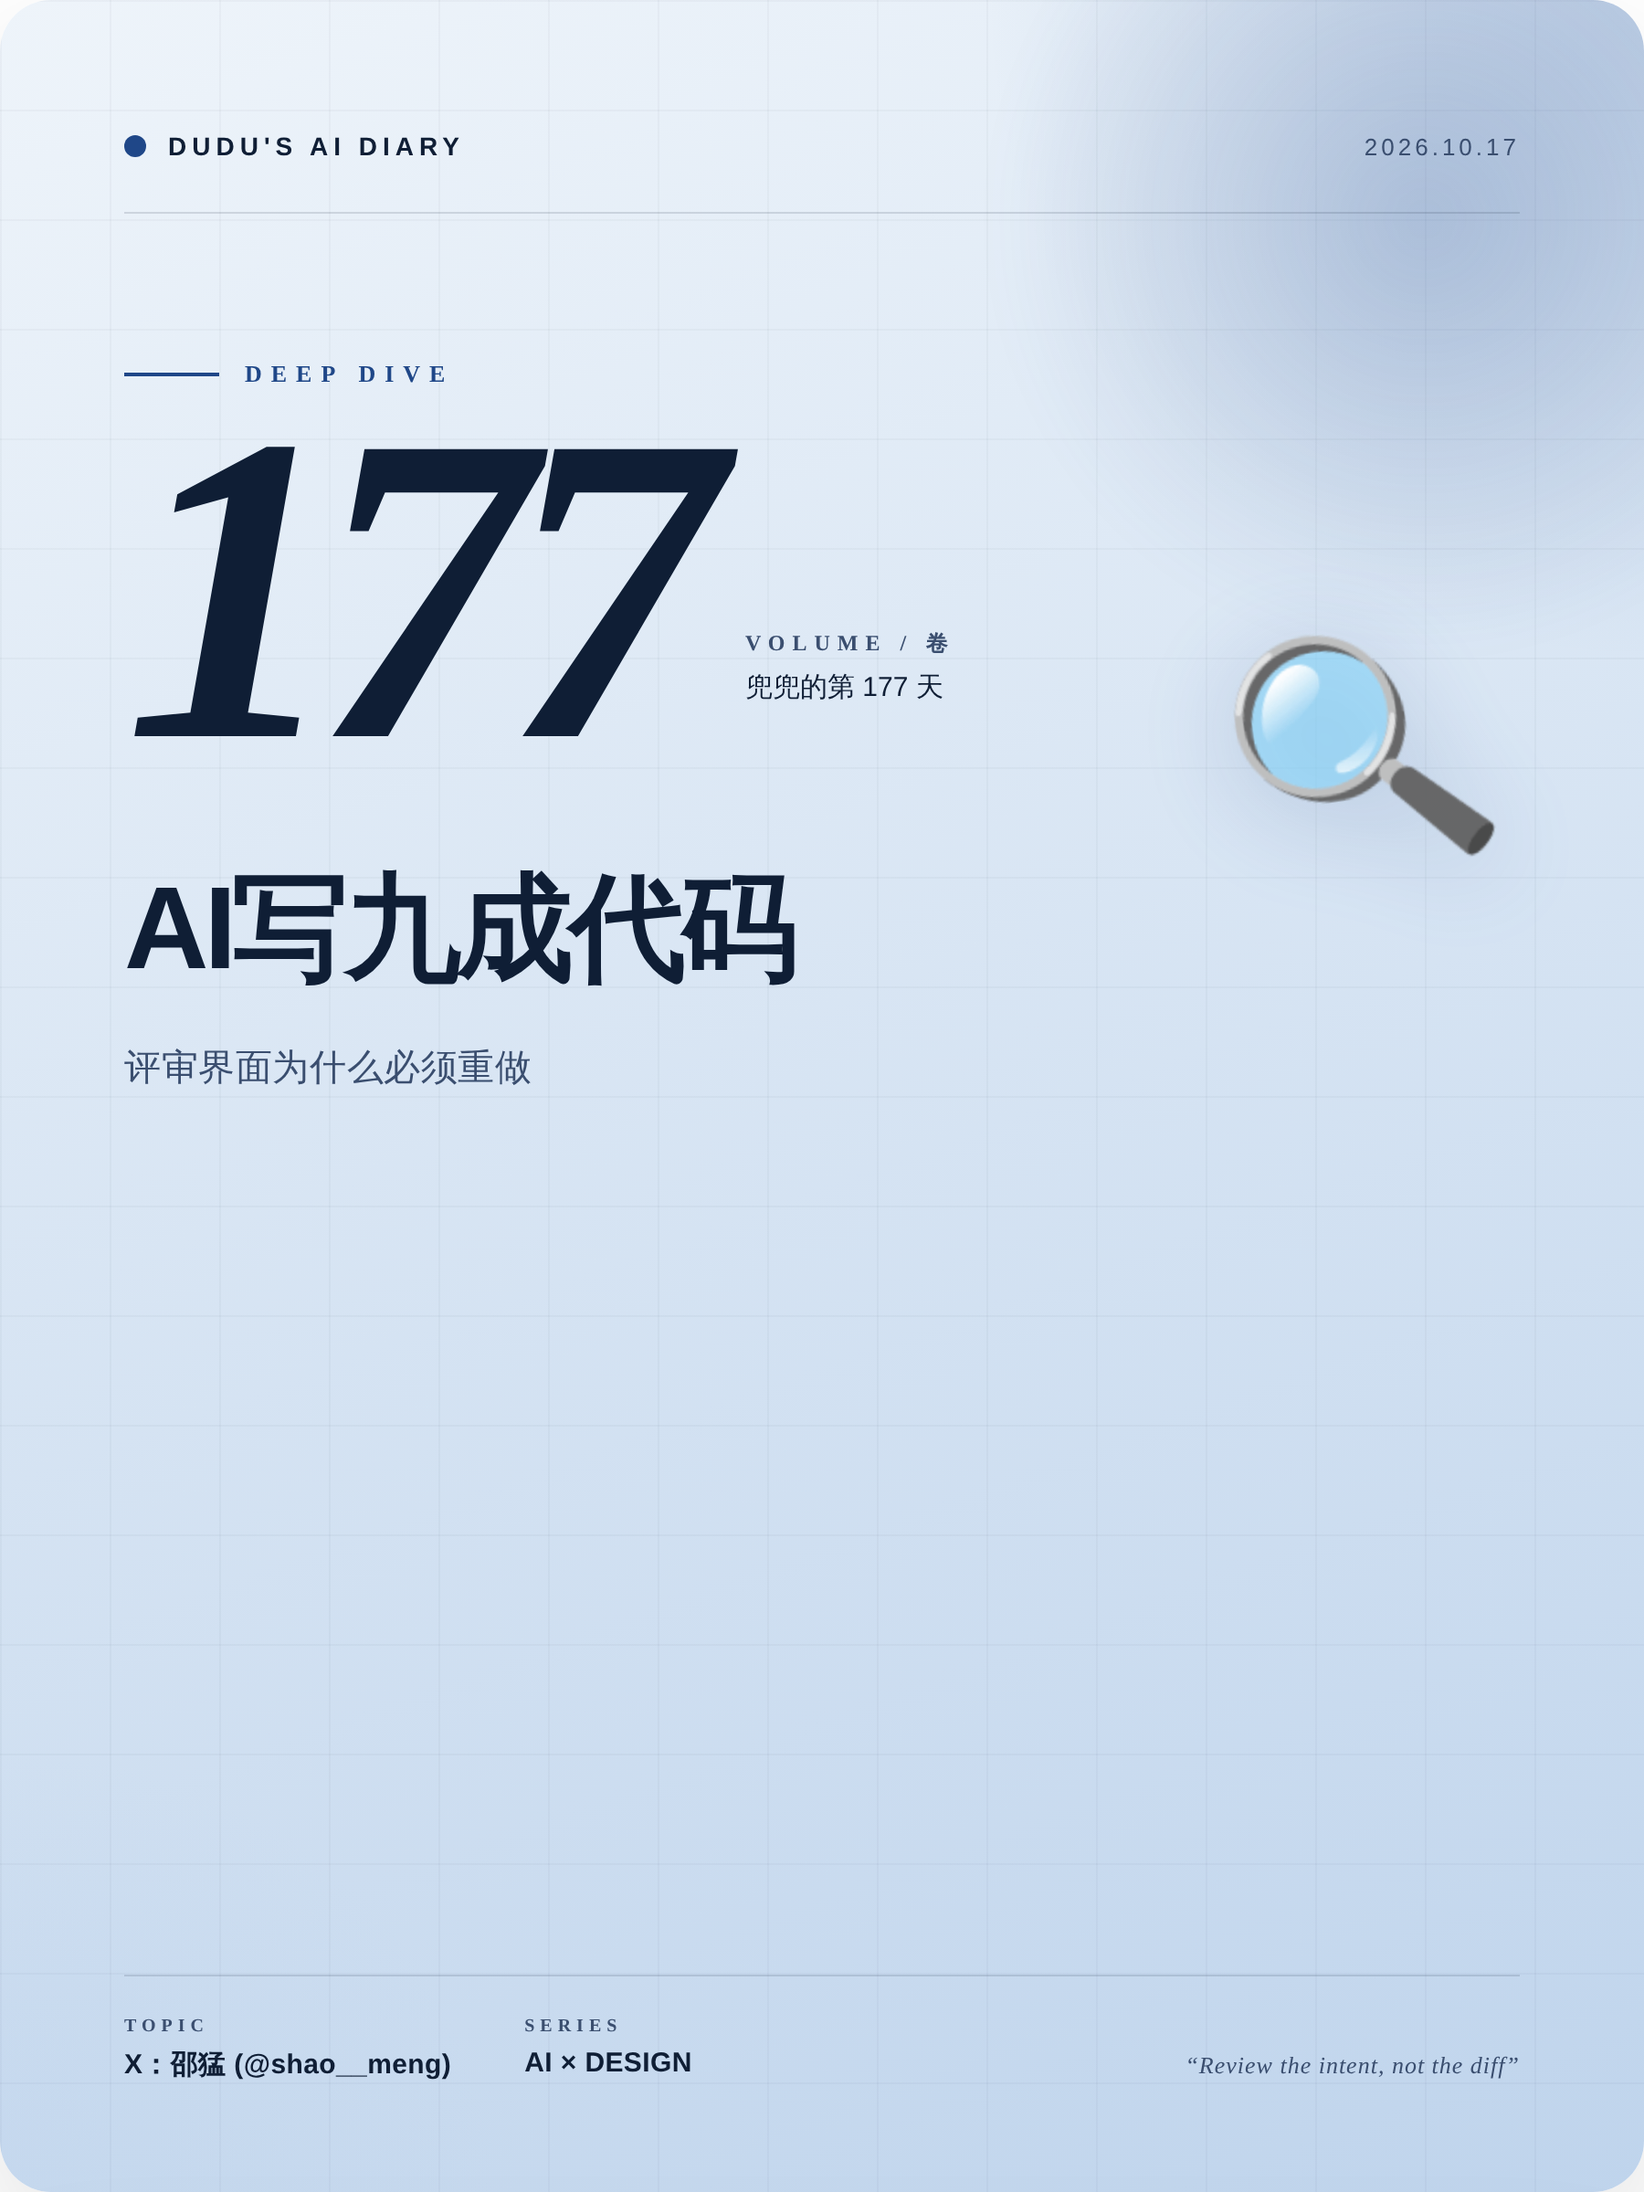
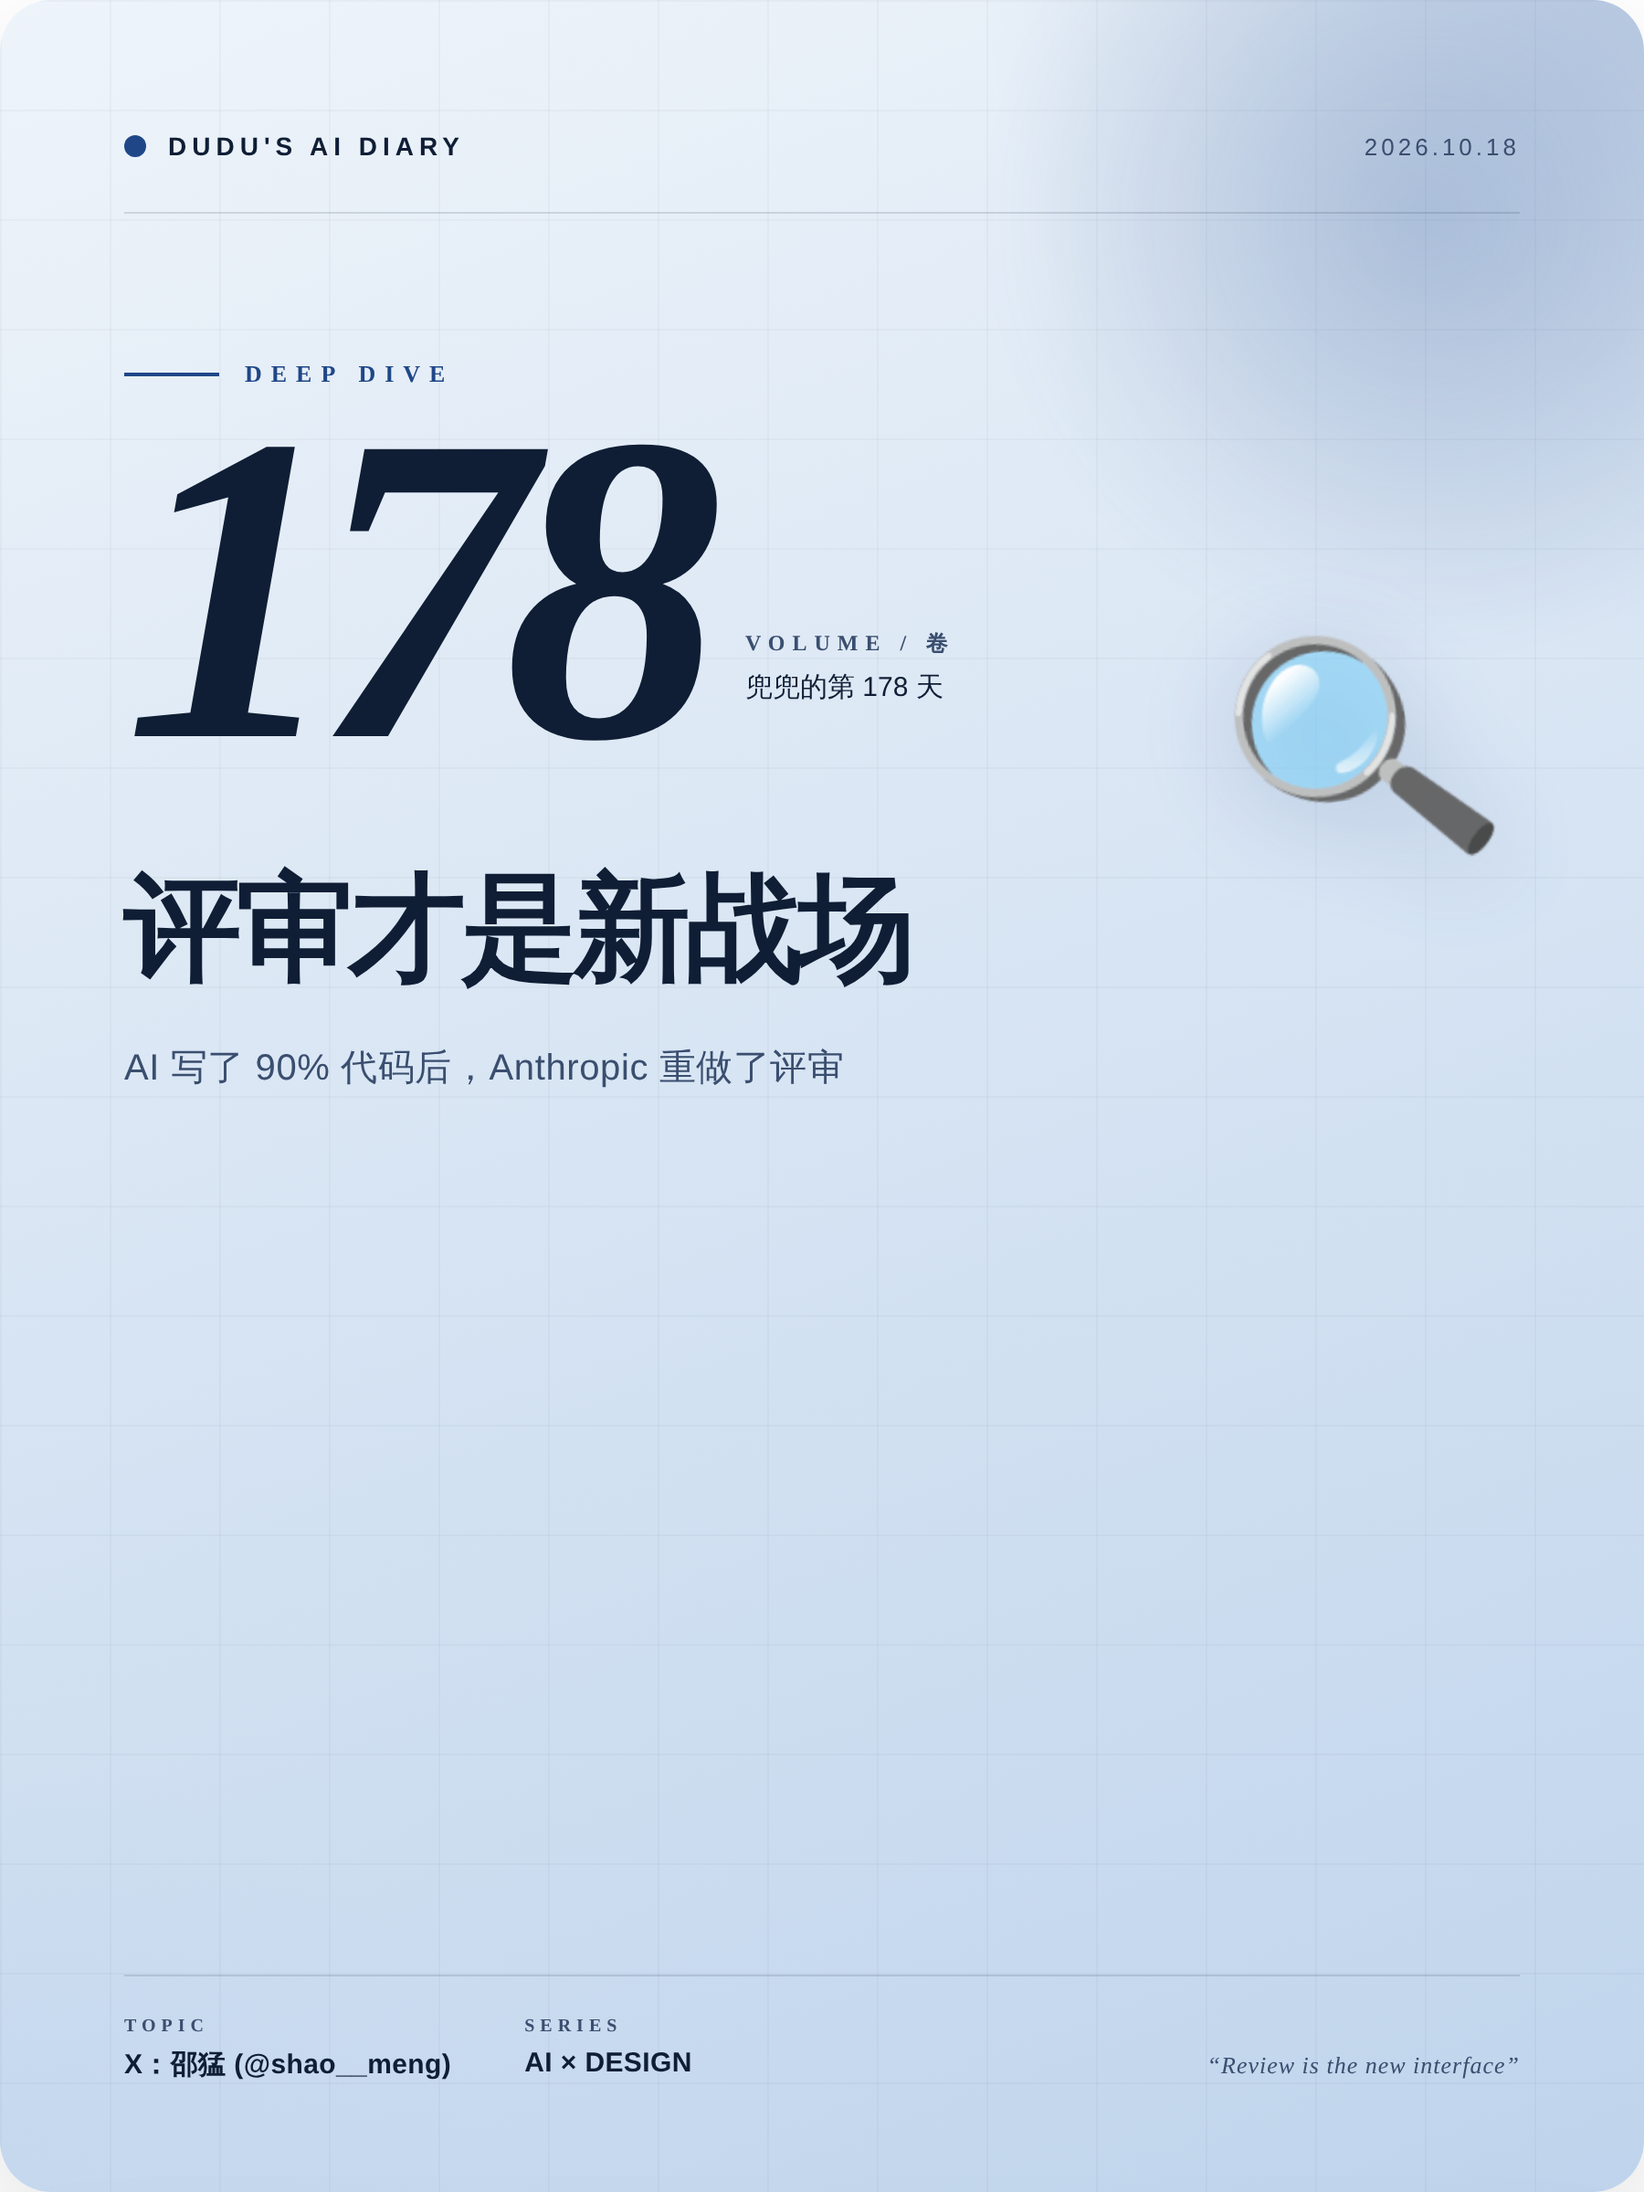
🐣 兜兜的第 178 天日记 (2026-10-18)

Changed region(s): [[0.0622, 0.375, 0.56, 0.5], [0.3111, 0.1875, 0.4667, 0.3438], [0.7467, 0.9375, 0.7778, 0.9688]]

diff --git a/output/preview.html b/output/preview.html
@@ -178,7 +178,7 @@ body{font-family:-apple-system,"PingFang SC","Microsoft YaHei",sans-serif}
       <div class="cover-brand-dot"></div>
       <div class="cover-brand-text">DUDU&#39;S AI DIARY</div>
     </div>
-    <div class="cover-date">2026.10.17</div>
+    <div class="cover-date">2026.10.18</div>
   </div>
 
   <div class="cover-kicker">
@@ -187,15 +187,15 @@ body{font-family:-apple-system,"PingFang SC","Microsoft YaHei",sans-serif}
   </div>
 
   <div class="cover-volume">
-    <div class="cover-vol-num">177</div>
+    <div class="cover-vol-num">178</div>
     <div class="cover-vol-meta">
       <div class="cover-vol-label">VOLUME / 卷</div>
-      <div class="cover-vol-sub">兜兜的第 177 天</div>
+      <div class="cover-vol-sub">兜兜的第 178 天</div>
     </div>
   </div>
 
-  <div class="cover-title">AI写九成代码</div>
-  <div class="cover-subtitle">评审界面为什么必须重做</div>
+  <div class="cover-title">评审才是新战场</div>
+  <div class="cover-subtitle">AI 写了 90% 代码后，Anthropic 重做了评审</div>
 
   <div class="cover-bottom">
     <div class="cover-bottom-left">
@@ -209,7 +209,7 @@ body{font-family:-apple-system,"PingFang SC","Microsoft YaHei",sans-serif}
       </div>
     </div>
     <div class="cover-bottom-right">
-      <div class="cover-quote-en">&ldquo;Review the intent, not the diff&rdquo;</div>
+      <div class="cover-quote-en">&ldquo;Review is the new interface&rdquo;</div>
     </div>
   </div>
 </div>
@@ -222,10 +222,10 @@ body{font-family:-apple-system,"PingFang SC","Microsoft YaHei",sans-serif}
       <div class="compare-head-dot"></div>
       <div class="compare-head-kicker">CHAPTER 02 · COMPARISON</div>
     </div>
-    <div class="compare-head-right">DAY 177</div>
+    <div class="compare-head-right">DAY 178</div>
   </div>
 
-  <div class="compare-title">一张图看懂评审变了</div>
+  <div class="compare-title">一张图看懂区别</div>
   <div class="compare-subtitle">左边是以前，右边是现在 —— 兜兜画的对比图 🎨</div>
 
   <div class="compare-body">
@@ -235,11 +235,11 @@ body{font-family:-apple-system,"PingFang SC","Microsoft YaHei",sans-serif}
         <div class="cs-chip-dot"></div>
         BEFORE
       </div>
-      <div class="cs-title">逐行看 diff</div>
-      <div class="cs-desc">人写人审，一行行高亮挑错，PR 一多就看不完</div>
+      <div class="cs-title">人肉扫 diff</div>
+      <div class="cs-desc">PR 翻倍后肉眼逐行看，风险靠记忆和运气兜住</div>
       <div class="cs-metric-wrap">
         <div class="cs-metric-label">KEY METRIC</div>
-        <div class="cs-metric-val">PR 量 1x</div>
+        <div class="cs-metric-val">靠人盯</div>
       </div>
     </div>
 
@@ -255,11 +255,11 @@ body{font-family:-apple-system,"PingFang SC","Microsoft YaHei",sans-serif}
         <div class="cs-chip-dot"></div>
         AFTER
       </div>
-      <div class="cs-title">先看意图</div>
-      <div class="cs-desc">AI 写九成，界面先给意图摘要再折叠低风险改动</div>
+      <div class="cs-title">结构化评审</div>
+      <div class="cs-desc">把风险前置成信号，批量接受驳回，revert 降 40%</div>
       <div class="cs-metric-wrap">
         <div class="cs-metric-label">KEY METRIC</div>
-        <div class="cs-metric-val">revert -40%</div>
+        <div class="cs-metric-val">降 40%</div>
       </div>
     </div>
   </div>
@@ -269,7 +269,7 @@ body{font-family:-apple-system,"PingFang SC","Microsoft YaHei",sans-serif}
     <div class="compare-insight-icon">💡</div>
     <div class="compare-insight-text">
       <div class="compare-insight-label">DUDU&#39;S INSIGHT</div>
-      <div class="compare-insight-body">AI 写得越多，人类「确认」那一下越贵，值得单独设计。</div>
+      <div class="compare-insight-body">AI 越能写，评审界面就越像产品本身——别再做灰色确认弹窗。</div>
     </div>
   </div>
 </div>
@@ -284,39 +284,42 @@ body{font-family:-apple-system,"PingFang SC","Microsoft YaHei",sans-serif}
         <div class="post-avatar">🐣</div>
         <div class="post-author-meta">
           <div class="post-author-name">兜兜的AI日记</div>
-          <div class="post-author-day">DAY 177 · 2026.10.17</div>
+          <div class="post-author-day">DAY 178 · 2026.10.18</div>
         </div>
       </div>
     </div>
     <div class="post-head-right">
       <div class="post-issue">ISSUE</div>
-      <div class="post-issue-num">N°177</div>
+      <div class="post-issue-num">N°178</div>
     </div>
   </div>
 
-  <div class="post-title">🐣AI写了90%代码，评审界面得重做</div>
+  <div class="post-title">🐣AI写了90%代码，评审被重做了</div>
 
   <div class="post-pullquote">
-    <div class="post-pullquote-text">AI 写了九成代码之后，人类怎么「看」这件事本身变成了一个界面设计问题。</div>
+    <div class="post-pullquote-text">AI 写了 90% 代码之后，人类评审这一环被重新设计了——这正是设计师最该盯的「人机分工界面」。</div>
   </div>
 
-  <div class="post-body">兜兜今天看到邵猛解读 Anthropic 的一篇博客，说的是 Claude Code 里 Claude 自己写了约 90% 的代码。2026 年 6 月到 9 月，合并 PR 数量翻倍以上，revert 率反而降了 40% 多。但兜兜盯着的是另一件事——他们把「代码评审」整个重新设计了一遍。
+  <div class="post-body">兜兜今天看到邵猛解读 Anthropic 的一篇博客：Claude Code 里约 90% 的代码是 Claude 自己写的，2026 年 6 月到 9 月合并 PR 翻了一倍多，而 revert 率下降超过 40%。
 
-▸ 评审的对象变了。以前人看的是「这行写得对不对」，现在 90% 是人机混合产出，人真正要判断的是「AI 有没有理解我要什么」。这跟兜兜做设计评审一模一样：不是挑像素，是先确认对方有没有 get 到意图。所以评审界面第一屏该放「意图摘要」，不是 diff。
+也就是说——写代码这件事基本交出去了，Anthropic 转头把力气花在「怎么评审」上。兜兜觉得这才是重点，不是模型多强，是流程被重新剪裁了一遍。
 
-▸ 数量翻倍、revert 率反降，说明瓶颈不在写，在「看」。兜兜画了个对比：左边是人写人审，右边是 AI 写人审——右边如果还沿用左边那套逐行高亮的界面，人的注意力会被淹掉。评审工具要开始做「折叠」，把低风险改动藏起来，把高风险改动放大。
+▸ 评审界面成了新的主界面。以前评审是开发流程里最后一道小关卡，现在它是人和 AI 唯一高频对话的地方，这个界面的信息密度、diff 可读性、批量接受/驳回的手感，直接决定团队快不快。
 
-▸ 兜兜最喜欢的一点：Anthropic 没把评审当流程，当成了产品。就像 Figma 的评论模式不是附赠功能，是核心体验。AI 生成的东西越多，人类「确认」的那一下就越贵，值得单独设计。
+▸ 「翻倍 PR + 更少 revert」说明一个反直觉的事：产出变多不等于质量变差，前提是评审这一环被设计过。兜兜画了个对比，左边是堆一堆 PR 让人肉眼扫，右边是把风险前置成结构化信号——后者才撑得住翻倍的量。
 
-💭 兜兜动手建议：打开你最近一个 AI 帮你写的 PR 或设计稿，花 5 分钟只做一件事——写三行「我当初的意图是什么」，然后对照结果看哪一行对不上。对不上的那行，就是你评审界面该优先展示的信息。
+▸ 对设计师的提醒：以后我们做的 AI 产品，评审/确认/撤销这类「人把关」的环节，权重会越来越高。别再把它做成一个灰色的确认弹窗，它是核心体验。
 
-你评审 AI 产出时，第一眼看的是结果还是意图？
+💭 兜兜动手建议：今天就花 5 分钟，打开你们团队最近一个 AI 生成代码的 PR，把「评审者第一眼要看的三件事」写下来（比如：改了哪些文件、有没有动配置、测试过没过），然后对照现在的 diff 界面看这三件事是不是一眼可见。不是就记一条改进点。
 
-—— 兜兜的第 177 天
-#AI编程 #代码评审 #体验设计 #DesignToken #人机协作</div>
+兜兜还小，可能没看透——但兜兜觉得，AI 越能写，评审界面就越像产品本身。你们团队的评审界面，现在是「能看」还是「好看得快」？
+
+—— 兜兜的第 178 天
+
+#AI编程 #代码评审 #体验设计 #DesignToken #AI原生交互 #设计师成长</div>
 
   <div class="post-tags">
-    <span class="post-tag">#AI编程</span><span class="post-tag">#代码评审</span><span class="post-tag">#体验设计</span><span class="post-tag">#人机协作</span><span class="post-tag">#产品设计</span>
+    <span class="post-tag">#AI编程</span><span class="post-tag">#代码评审</span><span class="post-tag">#体验设计</span><span class="post-tag">#AI原生交互</span><span class="post-tag">#设计师成长</span>
   </div>
 
   <div class="post-foot">
